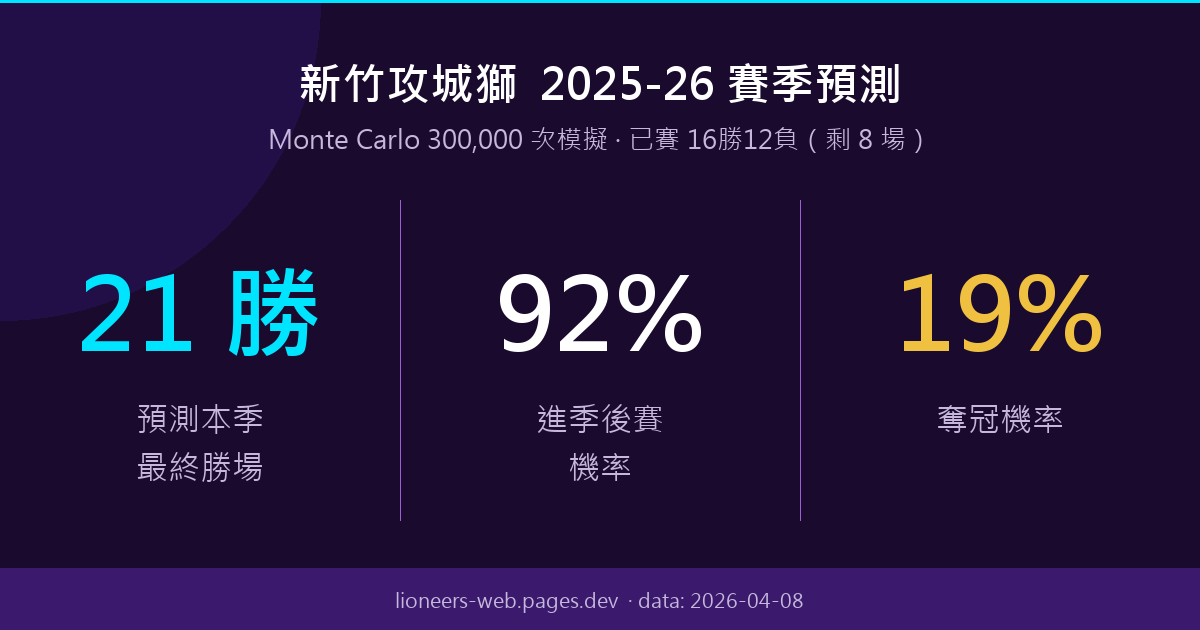
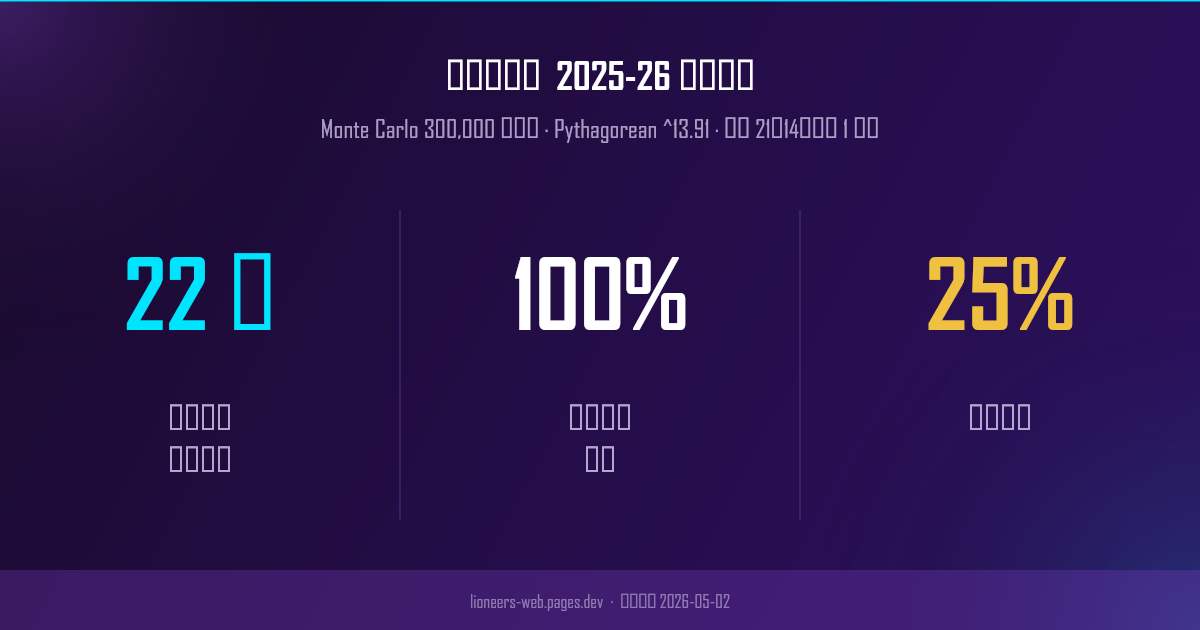
fix: 重新產生 og-image.png（21勝14負，剩1場）
- generate-og.js 加入 Windows 字體路徑支援（Microsoft JhengHei）
- 上次產生為 4/8（約28場），現已更新至 35 場最新戰績

diff --git a/generate-og.js b/generate-og.js
@@ -6,10 +6,22 @@ const { createCanvas, GlobalFonts } = require('@napi-rs/canvas');
 const fs = require('fs');
 const path = require('path');
 
-// 載入 CJK 字體
-GlobalFonts.loadFontsFromDir('/usr/share/fonts/truetype/');
-GlobalFonts.loadFontsFromDir('/usr/share/fonts/opentype/');
-const CJK = '"WenQuanYi Zen Hei"';
+// 載入 CJK 字體（Linux / Windows 雙路徑）
+const fontDirs = [
+  '/usr/share/fonts/truetype/',
+  '/usr/share/fonts/opentype/',
+  'C:\\Windows\\Fonts',
+  process.env.LOCALAPPDATA ? path.join(process.env.LOCALAPPDATA, 'Microsoft', 'Windows', 'Fonts') : '',
+].filter(Boolean);
+fontDirs.forEach(d => { try { GlobalFonts.loadFontsFromDir(d); } catch(_) {} });
+// 偵測可用 CJK 字體名稱
+const CJK_CANDIDATES = [
+  'WenQuanYi Zen Hei', 'Noto Sans CJK TC', 'Microsoft JhengHei',
+  'Microsoft YaHei', 'PingFang TC', 'Heiti TC',
+];
+const loadedFamilies = GlobalFonts.families.map(f => f.family);
+const CJK_NAME = CJK_CANDIDATES.find(n => loadedFamilies.includes(n)) || 'sans-serif';
+const CJK = `"${CJK_NAME}"`;
 
 const data = JSON.parse(fs.readFileSync(path.join(__dirname, 'processed_data.json'), 'utf8'));
 
